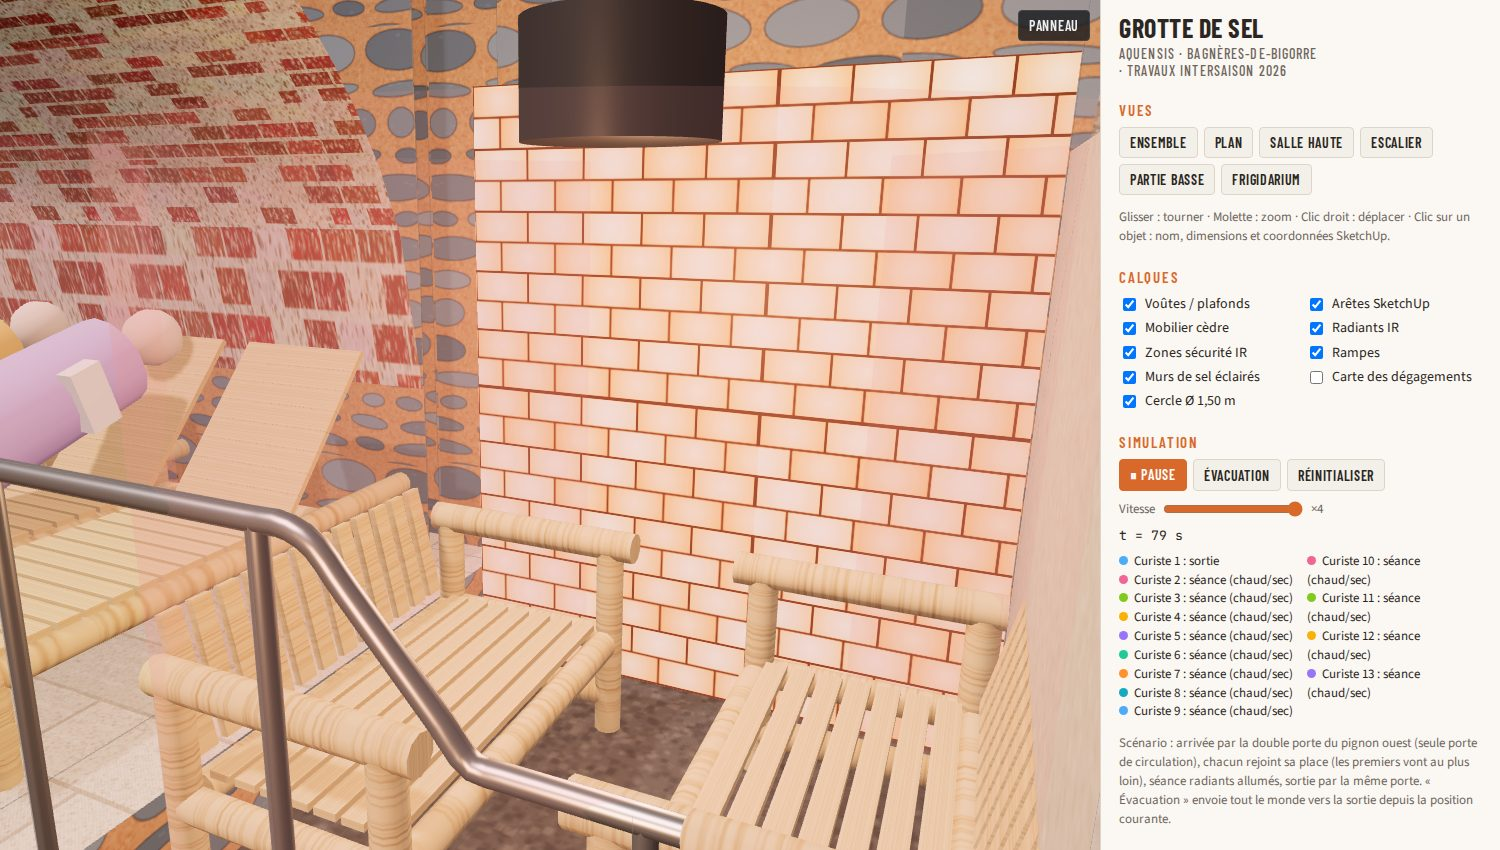
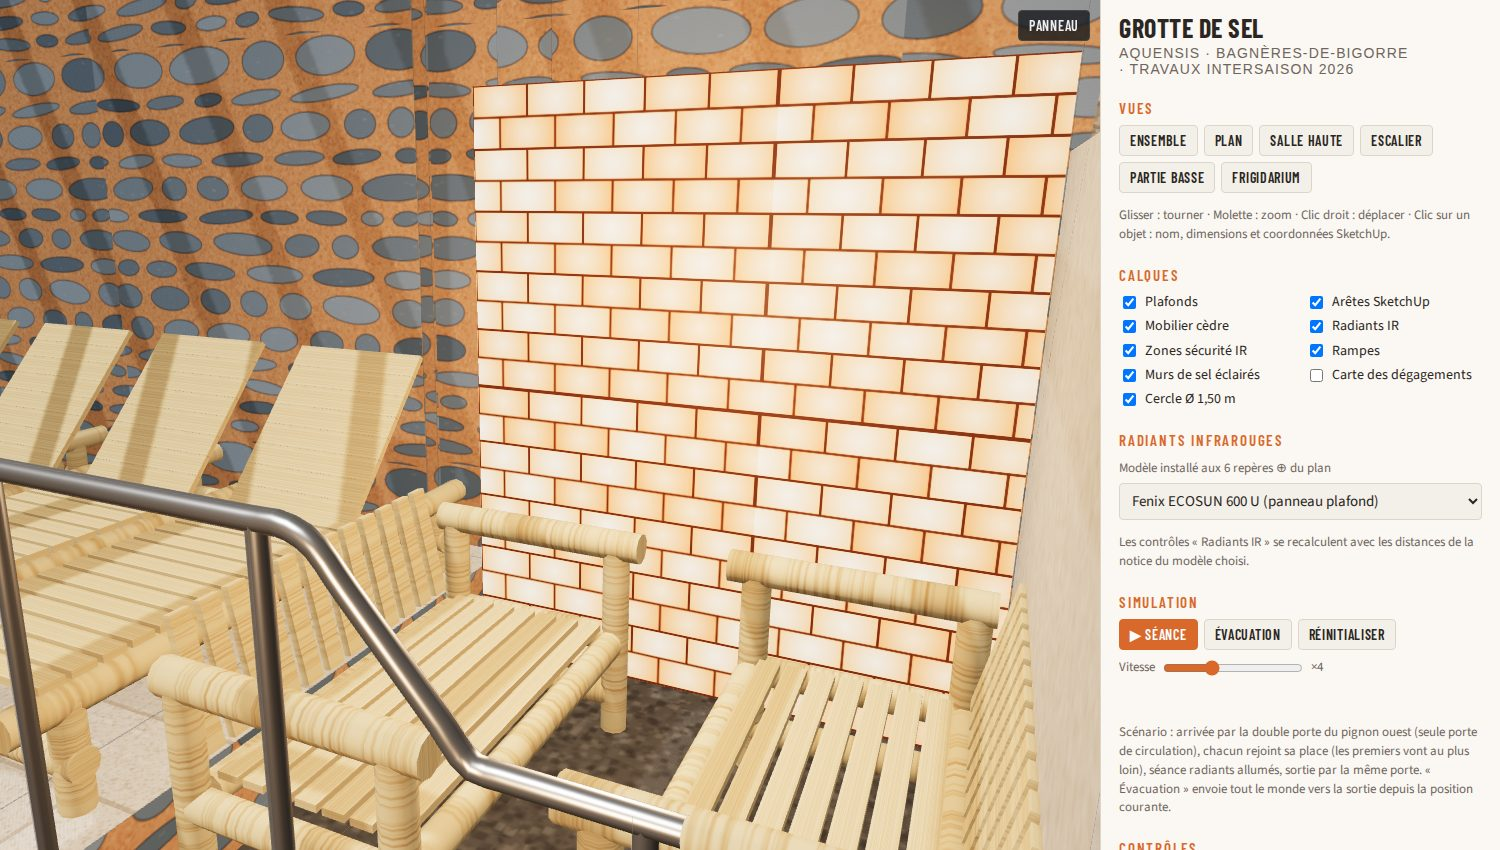
Radiants IR : comparateur de modèles (Fenix ECOSUN par défaut, conforme aux 6 repères), fiche comparative
Claude-Session: https://claude.ai/code/session_011Se3AegQD4XqQsHEm11rXg

diff --git a/js/app.js b/js/app.js
@@ -420,6 +420,8 @@
     // IR
     const md = irM(); const lim = (v) => (v === null || v === undefined ? null : v);
     const half = Math.max(md.L, md.l) / 2;
+    // entraxe mini entre appareils (Fenix : 0,6 m entre panneaux)
+    if (md.hPose) { let dmin = 1e9; irs.forEach((p, i) => irs.forEach((q, j) => { if (j > i) dmin = Math.min(dmin, Math.hypot(p.cfg.x - q.cfg.x, p.cfg.y - q.cfg.y) - Math.max(md.L, md.l)); })); add('Radiants IR', 'Distance entre panneaux', dmin >= 600 ? 'OK' : 'NOK', fmt(dmin), '≥ 0,60 m (notice Fenix)'); }
     irs.forEach((r) => {
       const name = r.cfg.nom; const below = r.bottom - r.fl;
       let wd = 1e9;
@@ -428,15 +430,20 @@
       let fd = 1e9, fname = '';
       items.forEach((it) => { const xs = it.poly.map((p) => p[0]), ys = it.poly.map((p) => p[1]); const dx = Math.max(Math.min(...xs) - r.cfg.x, 0, r.cfg.x - Math.max(...xs)), dy = Math.max(Math.min(...ys) - r.cfg.y, 0, r.cfg.y - Math.max(...ys)); const dz = Math.max(0, r.bottom - (it.h + it.T.H * 1000)); const d = Math.hypot(Math.max(0, Math.hypot(dx, dy) - half), dz); if (d < fd) { fd = d; fname = it.cfg.nom; } });
       const st = (v, m) => (m === null ? 'A VOIR' : v >= m ? 'OK' : 'NOK');
-      const sH = below >= (md.minSousAppareil || 0) && r.gapTop >= (md.ecartPlafond || 0) ? (md.minSousAppareil === null ? 'A VOIR' : 'OK') : 'NOK';
+      const hLibre = r.ceil - r.fl;
+      let sH;
+      if (md.hPose) sH = hLibre >= md.hPose - 5 ? 'OK' : 'NOK'; // hauteur de pose fabricant (± 5 mm d'arrondi)
+      else if (md.minSousAppareil !== null) sH = below >= md.minSousAppareil && r.gapTop >= (md.ecartPlafond || 0) ? 'OK' : 'NOK';
+      else sH = 'A VOIR';
       const sL = st(side, lim(md.minLateral)), sF = st(fd, lim(md.minInflammable));
       r.ok = sH === 'OK' && sL !== 'NOK' && sF !== 'NOK'; r.vol.material.color.set(r.ok ? 0x33cc66 : 0xe03131);
       const ref = (v) => (v === null ? 'non indiqué par la notice' : '≥ ' + fmt(v));
-      add('Radiants IR', name + ' : hauteur de pose', sH, fmt(below) + ' sous l\'appareil, ' + fmt(r.gapTop) + ' au plafond (hauteur libre ' + (isNaN(r.ceil) ? '?' : fmt(r.ceil - r.fl)) + ')', md.nom + ' : sous l\'appareil ' + ref(md.minSousAppareil) + ', au plafond ' + (md.ecartPlafond ? '≥ ' + fmt(md.ecartPlafond) : 'fixation directe'));
+      add('Radiants IR', name + ' : hauteur de pose', sH, fmt(below) + ' sous l\'appareil, ' + fmt(r.gapTop) + ' au plafond (hauteur libre ' + (isNaN(r.ceil) ? '?' : fmt(r.ceil - r.fl)) + ')', md.nom + ' : ' + (md.hPose ? 'hauteur de pose ' + fmt(md.hPose) : 'sous l\'appareil ' + ref(md.minSousAppareil)) + ', au plafond ' + (md.ecartPlafond ? '≥ ' + fmt(md.ecartPlafond) : 'fixation sur cadre'));
       add('Radiants IR', name + ' : distance aux murs', sL, fmt(side), ref(md.minLateral));
       add('Radiants IR', name + ' : distance au mobilier en cèdre', sF, fmt(fd) + ' (' + fname + ')', ref(md.minInflammable) + ' de la face rayonnante');
     });
-    add('Radiants IR', 'Modèle : ' + md.nom, md.interieur && md.plafondBois !== false ? (md.plafondBois ? 'OK' : 'A VOIR') : 'NOK', md.P + ' W, ' + md.IP + ', ' + (md.interieur ? 'usage intérieur prévu' : 'usage intérieur non prévu') + ', plafond bois : ' + (md.plafondBois === true ? 'autorisé' : md.plafondBois === false ? 'non autorisé' : 'non précisé'), 'Notice : ' + md.source, md.note || '');
+    const ipEau = +(md.IP.match(/IP\d(\d)/) || [0, 0])[1];
+    add('Radiants IR', 'Modèle : ' + md.nom, md.interieur && md.plafondBois !== false && ipEau >= 4 ? (md.plafondBois ? 'OK' : 'A VOIR') : 'NOK', md.P + ' W, ' + md.IP + ', ' + (md.interieur ? 'usage intérieur prévu' : 'usage intérieur non prévu') + ', plafond bois : ' + (md.plafondBois === true ? 'autorisé' : md.plafondBois === false ? 'non autorisé' : 'non précisé'), 'Usage intérieur, plafond bois admis, IP x4 mini (humidité / projections) — notice : ' + md.source, md.note || '');
     // Murs de sel / ambiances
     add('Murs de sel', 'Implantation des 2 murs de sel', 'OK', L.mursSel.map((w) => w.nom + ' ' + fmt(w.x1 - w.x0) + ' × ' + fmt(w.h)).join(' ; '), 'Croquis du 02/10/2026 : murs nord et sud de la partie basse');
     add('Murs de sel', 'Rétro-éclairage', 'A VOIR', '10 cm de vide technique derrière chaque mur', 'LED TBTS, IP65 conseillé', 'Prévoir une trappe ou un démontage pour la maintenance des LED.');

diff --git a/js/ir-models.js b/js/ir-models.js
@@ -3,9 +3,38 @@
  * montage : 'chaine' = suspendu (ecartPlafond = longueur de chaîne mini), 'plafond' = fixé au plafond (ecartPlafond = entretoise).
  * minSousAppareil : distance mini entre le dessous de l'appareil et le sol.
  * minLateral : distance mini aux murs ; minInflammable : distance mini de la face rayonnante aux matériaux inflammables.
+ * hPose : hauteur de pose (fixation au plafond) recommandée par le fabricant, comparée à la hauteur sous plafond.
  * null = valeur non trouvée dans la notice.
  */
 window.IR_MODELES = {
+  ecosun600: {
+    nom: 'Fenix ECOSUN 600 U (panneau plafond)', forme: 'panneau', L: 1192, l: 592, h: 30, P: 600, IP: 'IP44',
+    montage: 'plafond', ecartPlafond: 0, hPose: 2500, minSousAppareil: null, minLateral: 100, minInflammable: 100,
+    interieur: true, plafondBois: true,
+    note: 'Notice : pose horizontale au plafond sur cadre, « can be installed on flammable materials », 10 cm des objets inflammables, h = 2,5 m pour 300/600 W, 0,6 m entre panneaux. Ambiance max 30 °C : à valider pour une grotte chaude. Atmosphère saline : validation écrite du fabricant à demander.',
+    source: 'https://flexel.co.uk/wp-content/uploads/2020/10/ECOSUN-U-Instructions.pdf',
+  },
+  ecosun300: {
+    nom: 'Fenix ECOSUN 300 U (panneau plafond)', forme: 'panneau', L: 592, l: 592, h: 30, P: 300, IP: 'IP44',
+    montage: 'plafond', ecartPlafond: 0, hPose: 2500, minSousAppareil: null, minLateral: 100, minInflammable: 100,
+    interieur: true, plafondBois: true,
+    note: 'Mêmes conditions que le 600 U ; puissance totale 6 × 300 W = 1,8 kW, probablement juste pour une grotte chaude de ~28 m².',
+    source: 'https://flexel.co.uk/wp-content/uploads/2020/10/ECOSUN-U-Instructions.pdf',
+  },
+  redwell: {
+    nom: 'Redwell WE 600 (panneau, IP65 en fixe)', forme: 'panneau', L: 1006, l: 606, h: 18, P: 600, IP: 'IP65',
+    montage: 'plafond', ecartPlafond: 40, hPose: null, minSousAppareil: null, minLateral: 200, minInflammable: 500,
+    interieur: true, plafondBois: null,
+    note: 'Notice : 50 cm devant, 20 cm sur les côtés, 4 cm d\'écart (pattes). Notice de montage plafond séparée non trouvée : support bois à faire confirmer par Redwell. Installateur qualifié exigé en ERP.',
+    source: 'https://redwell.com/wp-content/uploads/anleitung-09-2025_low.pdf',
+  },
+  vitramo: {
+    nom: 'Vitramo VH06262 (panneau plafond)', forme: 'panneau', L: 618, l: 618, h: 26, P: 810, IP: 'IP30',
+    montage: 'plafond', ecartPlafond: 0, hPose: null, minSousAppareil: 1800, minLateral: 300, minInflammable: 600,
+    interieur: true, plafondBois: true,
+    note: 'Plafond bois admis (support 85 °C en continu). Mais IP30 et « ne pas exposer à l\'humidité » : déconseillé en atmosphère saline.',
+    source: 'https://www.infrarotheizung-vitramo.de/files/downloads/datenblaetter/VH06262%20Datenblatt%20Vitramo%20Infrarotheizung.pdf',
+  },
   trotec: {
     nom: 'Trotec IR 1500 SC', forme: 'rond', L: 420, l: 420, h: 240, P: 1500, IP: 'IP34',
     montage: 'chaine', ecartPlafond: 500, minSousAppareil: 1800, minLateral: 1000, minInflammable: 1000,

diff --git a/js/layout.js b/js/layout.js
@@ -63,7 +63,8 @@ window.LAYOUT = {
     { type: 'banc', x: 7860, y: 917, rot: 270, nom: 'Banc long B20B — alcôve est' },
   ],
 
-  // ---------- Radiants IR : repères ⊕ du plan annoté (modèle : voir js/ir-models.js) ----------
+  // ---------- Radiants IR : repères ⊕ du plan annoté ; modèle par défaut (liste dans js/ir-models.js) ----------
+  irModele: 'ecosun600',
   ir: [
     { x: 3973, y: 2981, chaine: 500, nom: 'IR salle haute sud-ouest' },
     { x: 6658, y: 2856, chaine: 500, nom: 'IR salle haute sud-est' },

diff --git a/docs/CONTROLES.md b/docs/CONTROLES.md
@@ -4,21 +4,19 @@ Aménagement d'après le plan annoté (`docs/plan_annote.jpg`) et le croquis des
 géométrie du SketchUp `grotte_de_sel1.skp`. État du 2 octobre 2026. Références réglementaires indicatives,
 à faire valider par le bureau de contrôle.
 
-**Locaux** : grotte de sel chaude et sèche = salle haute voûtée (H 2,5 m) + partie basse (2 murs de sel rétro-éclairés).
+**Locaux** : grotte de sel chaude et sèche = salle haute (plafond plat bois, H 2,5 m) + partie basse (2 murs de sel rétro-éclairés).
 Frigidarium froid et humide derrière la porte vitrée de 0,80 m (vue rivière). Alcôve sud avec 2 bancs B20B.
 
 ## Points bloquants (NOK)
 
 | # | Point | Mesure | Exigence | Piste |
 |---|---|---|---|---|
-| 1 | Radiants IR 1500 SC : hauteur de pose (6 appareils) | hauteur libre 2,17 à 2,50 m | notice : 0,50 m + 0,24 m + 1,80 m = **2,54 m mini** | aucun emplacement conforme : panneaux rayonnants plafond/mur à faible distance de sécurité |
-| 2 | Radiants : 1 m des matériaux inflammables | 0,49 à 0,57 m des fauteuils B4A (salle haute) | ≥ 1,00 m | les repères ⊕ du plan sont au-dessus des fauteuils |
-| 3 | Radiants : 1 m des murs | 0,39 à 0,85 m | ≥ 1,00 m | |
-| 4 | Canapés B6 KD face à face (partie basse) | 0,35 m entre assises ; les 2 canapés côté porte n'ont aucun accès | ≥ 0,60 m pour les jambes, accès à chaque place | le SketchUp donne 1,77 m de profondeur, le plan papier (cotes 1,55 / 2,25) suppose plus : mesurer sur place |
-| 5 | Bancs B20B dans l'alcôve | 1,73 m pour 1,67 m | | recouper ou poser en biais |
-| 6 | Largeur de l'escalier | 0,73 m (≈ 0,61 m entre rampes) | 0,90 m (1 UP) ; PMR existant 1,00 m | |
-| 7 | Giron | 27 cm | ≥ 28 cm | |
-| 8 | Accès PMR à la partie basse | 30 cm, 2 marches | rampe 5 % = 6 m | élévateur ou dérogation |
+| 1 | Radiants : Trotec IR 1500 SC non conforme (2,54 m de hauteur libre, 1 m des murs et des inflammables, usage extérieur) | | | **remplacé par 6 × Fenix ECOSUN 600 U** : conforme aux 6 repères (voir docs/RADIANTS_IR.md) |
+| 2 | Canapés B6 KD face à face (partie basse) | 0,35 m entre assises ; les 2 canapés côté porte n'ont aucun accès | ≥ 0,60 m pour les jambes, accès à chaque place | le SketchUp donne 1,77 m de profondeur, le plan papier (cotes 1,55 / 2,25) suppose plus : mesurer sur place |
+| 3 | Bancs B20B dans l'alcôve | 1,73 m pour 1,67 m | | recouper ou poser en biais |
+| 4 | Largeur de l'escalier | 0,73 m (≈ 0,61 m entre rampes) | 0,90 m (1 UP) ; PMR existant 1,00 m | |
+| 5 | Giron | 27 cm | ≥ 28 cm | |
+| 6 | Accès PMR à la partie basse | 30 cm, 2 marches | rampe 5 % = 6 m | élévateur ou dérogation |
 
 ## À surveiller
 
@@ -26,7 +24,7 @@ Frigidarium froid et humide derrière la porte vitrée de 0,80 m (vue rivière).
   afficher un maximum de 19 personnes, personnel compris.
 - **Sel et humidité** : le frigidarium froid et humide touche la grotte. Le sel est hygroscopique :
   porte à fermeture automatique avec joints, grotte en légère surpression ou déshumidifiée, extraction côté frigidarium.
-- **Usage du radiant** : Trotec le prévoit pour « surfaces extérieures couvertes », IP34 ; atmosphère saline = corrosion.
+- **Radiants ECOSUN** : faire confirmer par Fenix la tenue en atmosphère saline et la température ambiante maxi (30 °C dans la notice 2025).
 - **Rétro-éclairage** : 10 cm de vide technique derrière chaque mur de sel, LED TBTS IP65, accès maintenance.
 - **Avancée haute de l'escalier** : 0,78 × 0,73 m avec 30 cm de chute de chaque côté ; rampes sur toute la longueur.
 

diff --git a/docs/RADIANTS_IR.md b/docs/RADIANTS_IR.md
@@ -1,0 +1,37 @@
+# Radiants infrarouges pour la grotte de sel
+
+Contexte : plafond plat en bois à 2,50 m, 6 points de chauffage (repères ⊕ du plan annoté), mobilier en cèdre,
+atmosphère saline, ERP. Le Trotec IR 1500 SC prévu au départ ne convient pas : sa notice demande 2,54 m de hauteur libre,
+1 m des murs et 1 m des matériaux inflammables, et il est conçu pour l'extérieur couvert.
+
+## Comparatif (valeurs des notices fabricants)
+
+| Modèle | Format / puissance / IP | Plafond bois | Hauteur de pose | Distances | Résultat aux 6 repères |
+|---|---|---|---|---|---|
+| **Fenix ECOSUN 600 U** | 1192 × 592 × 30 mm, 600 W, IP44 | autorisé (« can be installed on flammable materials ») | 2,5 m | 10 cm des objets inflammables, 0,6 m entre panneaux | **conforme** (6 × 600 W = 3,6 kW) |
+| **Fenix ECOSUN 300 U** | 592 × 592 × 30 mm, 300 W, IP44 | autorisé | 2,5 m | idem | conforme, mais 1,8 kW au total : sans doute juste pour une grotte chaude |
+| Redwell WE 600 | 1006 × 606 × 18 mm, 600 W, IP65 en raccordement fixe | non précisé (notice plafond non trouvée) | non précisée | 50 cm devant, 20 cm côtés | géométrie OK, **à faire confirmer par Redwell** |
+| Vitramo VH06262 | 618 × 618 × 26 mm, 810 W, **IP30** | autorisé (support 85 °C) | 1,80 m du sol | 30 cm murs, 60 cm objets dessous | **écarté** : IP30, « ne pas exposer à l'humidité » |
+| Frico Elztrip EZ100N | barre, 600–1050 W, IP44, 280 °C | 500 mm des matériaux inflammables | 1,80 m | | écarté |
+| Heatscope Vision / Spot | 1600–3200 W, IP44 | support A2 (incombustible) exigé | 1,80 m | 1,50 m des inflammables | écarté |
+| Trotec IR 1500 SC | Ø 420 × 240 mm, 1500 W, IP34 | non précisé | 0,50 m + 1,80 m | 1 m murs et inflammables | écarté |
+
+## Recommandation
+
+**Fenix ECOSUN 600 U**, posé sur son cadre au plafond bois, aux 6 repères du plan.
+Avant commande, faire valider par écrit par Fenix (ou son distributeur France) :
+
+1. la tenue en **atmosphère saline** (corrosion du cadre et des connexions) ;
+2. la **température ambiante maximale** : la notice 2025 indique 30 °C, à comparer à la consigne de la grotte ;
+3. l'usage en **ERP** avec raccordement fixe, sur un circuit dédié avec protection différentielle 30 mA.
+
+## Sources
+
+- Fenix ECOSUN U, notice : https://flexel.co.uk/wp-content/uploads/2020/10/ECOSUN-U-Instructions.pdf
+- Fenix ECOSUN U, notice 2025 : https://xlrzbfnheqpszgtyhdkh.supabase.co/storage/v1/object/public/product_documents/Ecosun_Fenix_korrel_manual-1775913070540.pdf
+- Redwell, notice 09/2025 : https://redwell.com/wp-content/uploads/anleitung-09-2025_low.pdf
+- Vitramo VH06262, fiche : https://www.infrarotheizung-vitramo.de/files/downloads/datenblaetter/VH06262%20Datenblatt%20Vitramo%20Infrarotheizung.pdf
+- Vitramo, notice de pose au plafond : https://www.infrarotheizung-vitramo.de/files/downloads/anleitungen/Baureihe%20VH%20Infrarotheizung%20Deckenmontage%20Aufputz%20Installations-%20und%20Montageanleitung%20Vitramo%20Infrarotheizung.pdf
+- Frico EZ100N : https://www.airchaud-diffusion.fr/medias/-/pdf/fichiers/fiches-produits/FR-EZ111N-EZG111N-2-01296.pdf
+- Heatscope, notice FR : https://www.heatscopefrance.fr/files/2016/01/France_Notice_HEATSCOPE__2015.pdf
+- Trotec IR 1500 SC : docs/references/Trotec_IR1500SC_notice_FR.pdf

diff --git a/README.md b/README.md
@@ -24,7 +24,7 @@ coordonnées X/Y/Z dans le repère SketchUp.
 ## Ce que fait la maquette
 
 - **Géométrie** : lue directement dans le `.skp` (447 sommets, 734 arêtes, 280 faces) par `tools/skp_extract.py`.
-- **Textures** : moellons gris-bleu à joints orangés et voûte brique (salle carrelée), dallage pierre, chape sombre,
+- **Textures** : moellons gris-bleu à joints orangés, plafond plat en lames de bois sur solives (grotte), dallage pierre, chape sombre,
   croûte de sel blanche (voûte de la salle 2, d'après les photos), briques de sel de l'Himalaya rétro-éclairées.
 - **Équipements** (`js/layout.js`, d'après le plan annoté `docs/plan_annote.jpg`) : salle haute avec 6 chaises longues
   B17 et 4 fauteuils B4A KD ; partie basse avec 4 canapés B6 KD et les 2 murs de sel (nord et sud) ; 2 bancs B20B dans
@@ -55,7 +55,6 @@ py tools\skp_extract.py model\grotte_de_sel1.skp js\model-data.js
 - **Profondeur de la partie basse** : 1,77 m dans le SketchUp, alors que le plan papier (cotes 1,55 / 2,25) semble en
   supposer davantage. Ça décide si les 4 canapés B6 KD tiennent.
 - **Voûte du frigidarium** : non dessinée dans le SketchUp, prise d'après les photos (berceau naissant au sol, clé 2,50 m).
-- **Plafond de la partie basse** : plat, bois, à 2,50 m.
 - **Positions exactes** : les meubles et les lampes IR sont reportés depuis une photo en perspective du plan ; à ajuster
   dans `js/layout.js` si besoin.
 
@@ -73,5 +72,7 @@ model/                  fichier SketchUp source
 docs/photos/            photos du chantier
 docs/references/        notice Trotec IR 1500 SC (FR)
 docs/CONTROLES.md       synthèse des contrôles
+docs/RADIANTS_IR.md     comparatif des radiants infrarouges
+js/ir-models.js         caractéristiques des radiants (notices)
 docs/plan_annote.jpg    plan annoté à la main (référence de l'aménagement)
 ```
